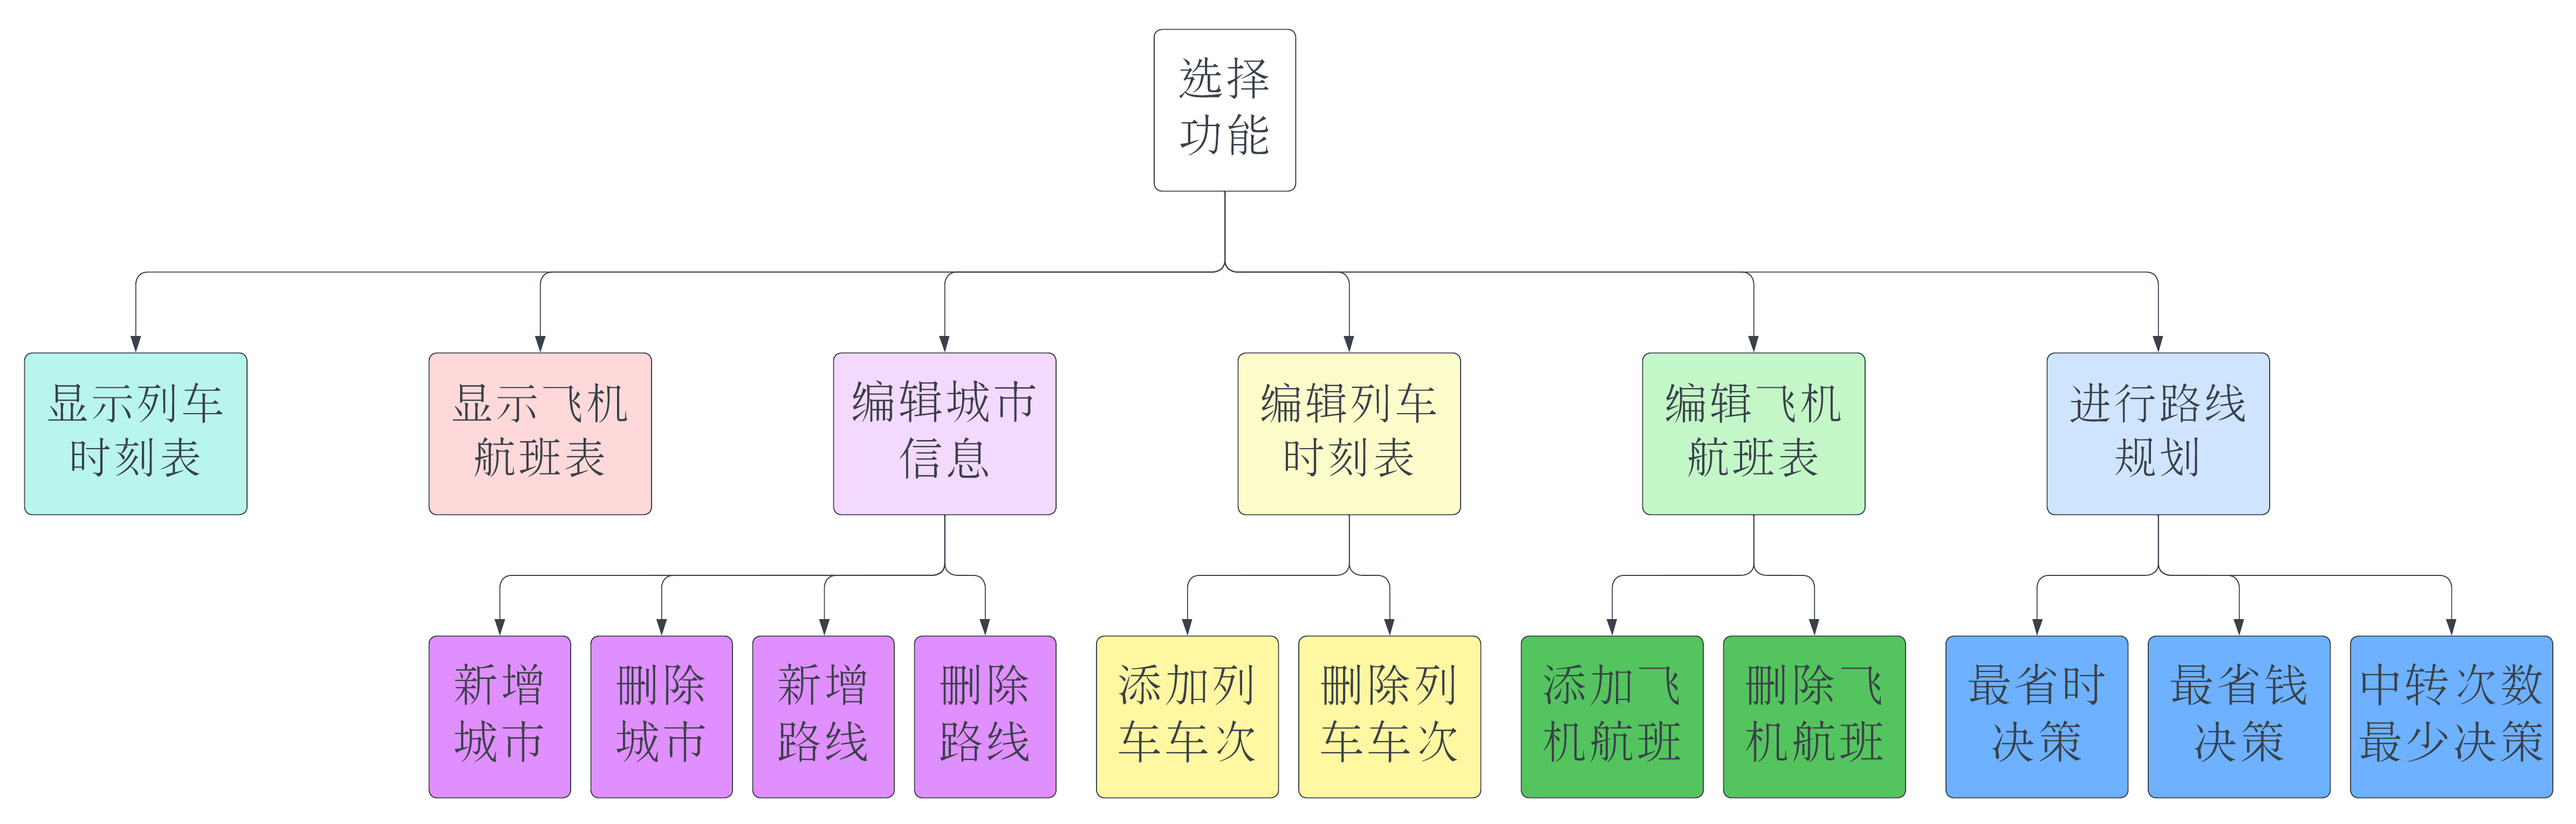
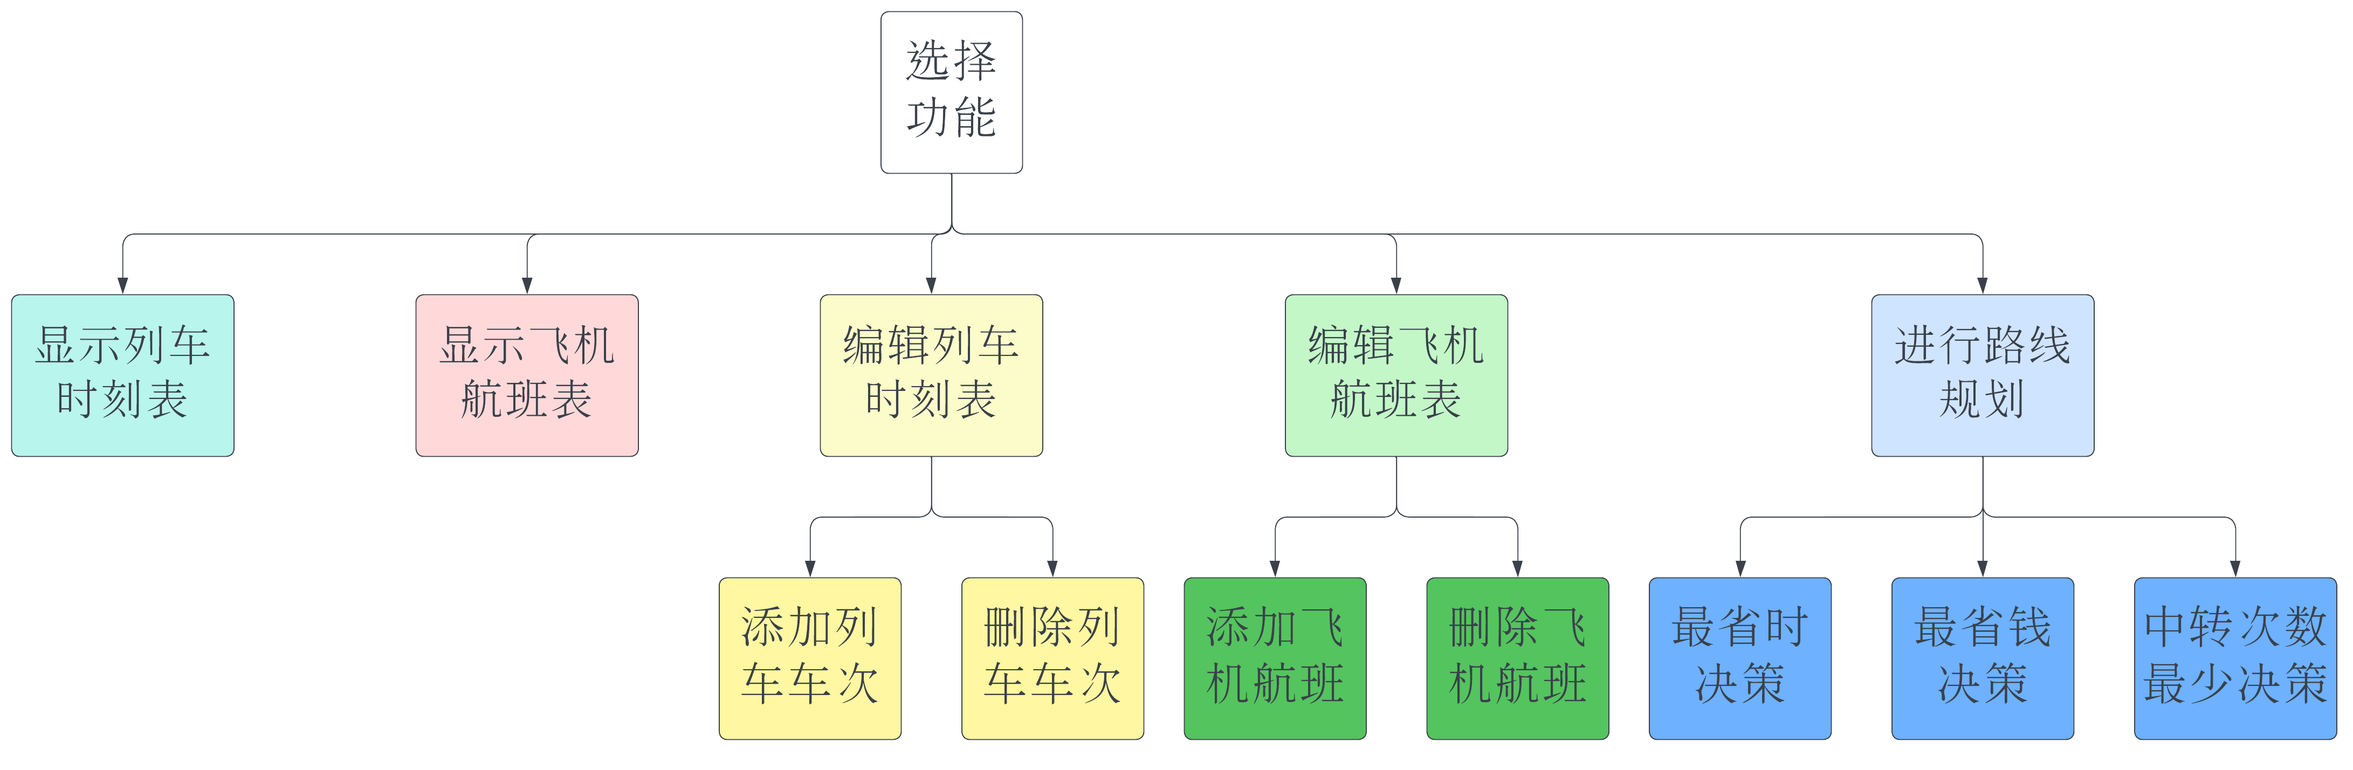
feat: change framework

diff --git a/NationalTrafficConsult/NationalTrafficConsult.h b/NationalTrafficConsult/NationalTrafficConsult.h
@@ -1,8 +1,11 @@
 #include <stdio.h>
 #include <stdlib.h>
+#include <string.h>
+#include <limits.h>         
 
 #define MAX_STR_LEN 500     // 字符串最大长度
 #define MAX_VEX_NUM 100     // (城市交通)图中最大顶点数目
+#define MAX_INFO 20         // 最大航班及车次数量和
 
 // 时间的规整格式
 typedef struct Time{
@@ -10,9 +13,20 @@ typedef struct Time{
     int minute;     // 分钟数
 } Time;
 
+// 车次/航班信息
+typedef struct Info{
+    int tag;                // 0：火车    1：飞机
+    char number[7];         // T/Fxxxxxx, 编号规则：T火车F飞机，010203表示从01号城市到02号城市的第03趟车次/航班
+    double cost;            // 票价，规范为两位小数
+    Time start_time;        // 起始时间
+    Time end_time;          // 到达时间
+    int duration;           // 时长，单位为分钟
+} Info;
+
 // 表结点
 typedef struct CityNode{
     int vindex;             // 该结点在表头结点数组中的城市序号
+    Info info[MAX_INFO];    // 本趟车次/航班的相关信息
     struct CityNode *next;  // 下个结点
 } NodeLink;
 
@@ -22,112 +36,55 @@ typedef struct CityMap{
     struct {
         char city[MAX_STR_LEN]; // 城市名
         NodeLink *first;        // 第一个邻接点
-    } v[MAX_VEX_NUM];
+    } v[MAX_VEX_NUM];           // 城市序号v[i]
 } CityMap;
-
-// 列车时刻表：单链表
-typedef struct TrainTable{
-    int num;                            // 列车总数，或车次编号
-    struct Train{
-        char departure[MAX_STR_LEN];    // 始发站
-        char terminal[MAX_STR_LEN];     // 终点站
-        Time start_time;                // 起始时间
-        Time end_time;                  // 到达时间
-        int duration_time;              // 路途用时
-        double cost;                    // 票价
-    } Train;
-    struct TrainTable *next;            // 下趟车次
-} TrainNode, TrainTable;
-
-// 飞机航班表：单链表
-typedef struct FlightTable{
-    int num;                            // 航班总数，或航班编号
-    struct Flight{
-        char departure[MAX_STR_LEN];    // 始发站
-        char terminal[MAX_STR_LEN];     // 终点站
-        Time start_time;                // 起始时间
-        Time end_time;                  // 到达时间
-        int duration_time;              // 路途用时
-        double cost;                    // 票价
-    } Flight;
-    struct FlightTable *next;
-} FlightNode, FlightTable;              // 下趟航班
 
 // 获取两个时刻的时间间隔(t1 < t2, 返回值的单位为分钟)
 int GetDurationTime(Time t1, Time t2);
 
-/* 
-setters and getters
-- setter: 形如void SetElem(Type *T, FILE *F)，意为把数据结构T中的内容保存到文件F中去
-- getter: 形如Type *GetElem(FILE *F)，意为获取文件F中的内容，并转换到Type类型的数据结构，作为返回值
+// 保存数据：把交通图的信息分别保存到TrainTable.txt和FlightTable.txt中
+void SetMap(CityMap *CMap, FILE *TT, FILE *FT);
+
+// 获取数据：把现有的TrainTable.txt和FlightTable.txt中的数据存储为一张交通图
+CityMap *GetMap(FILE *TT, FILE *FT);
+
+/*
+显示时刻表和航班表，都要相应地把文件按照规范格式保存起来
+FT: FlightTable.txt
+TT: TrainTable.txt
 */
-
-// 获取城市交通图
-CityMap *GetCityMap(FILE *CM);
-
-// 获取列车时刻表
-TrainTable *GetTrainTable(FILE *TT);
-
-// 获取飞机航班表
-FlightTable *GetFlightTable(FILE *FT);
-
-// 保存城市交通图
-void SetCityMap(CityMap *CMap, FILE *CM);
-
-// 保存列车时刻表
-void SetTrainTable(TrainTable *TTable, FILE *TT);
-
-// 保存飞机航班表
-void SetFlightTable(FlightTable *FTable, FILE *FT);
-
-// 核心功能
 // 显示列车时刻表
-void ShowTrainTable(TrainTable *TTable);
+void ShowTrainTable(CityMap *CMap, FILE *TT);
 
 // 显示飞机航班表
-void ShowFlightTable(FlightTable *FTable);
+void ShowFlightTable(CityMap *CMap, FILE *FT);
 
-// 编辑城市信息
-CityMap *EditCity(CityMap *CMap);
+// 编辑车次信息
+CityMap *EditTrain(CityMap *CMap);
 
-// 新增城市
-CityMap *AddCity(CityMap *CMap, char city[]);
+// 添加车次
+CityMap *AddTrain(CityMap *CMap, char departure[], char terminal[], Time start_time, Time end_time, double cost);
 
-// 删除城市
-CityMap *DelCity(CityMap *CMap, char city[]);
-
-// 新增路线
-CityMap *AddRoute(CityMap *CMap, char city1[], char city2[], int weight);
-
-// 删除路线
-CityMap *DelRoute(CityMap *CMap, char city1[], char city2[], int weight);
-
-// 编辑列车信息
-TrainTable *EditTrain(TrainTable *TTable);
-
-// 添加列车车次
-TrainTable *AddTrain(TrainTable *TTable, char departure[], char terminal[], Time start_time, Time end_time, double cost);
-
-// 删除列车车次
-TrainTable *DelTrain(TrainTable *TTable, char departure[], char terminal[], Time start_time, Time end_time, double cost);
+// 删除车次
+CityMap *DelTrain(CityMap *CMap, char departure[], char terminal[], Time start_time, Time end_time, double cost);
 
 // 编辑航班信息
-FlightTable *EditFlight(FlightTable *FTable);
+CityMap *EditFlight(CityMap *CMap);
 
-// 添加飞机航班
-FlightTable *AddFlight(FlightTable *FTable, char departure[], char terminal[], Time start_time, Time end_time, double cost);
+// 添加航班
+CityMap *AddFlight(CityMap *CMap, char departure[], char terminal[], Time start_time, Time end_time, double cost);
 
-// 删除飞机航班
-FlightTable *DelFlight(FlightTable *FTable, char departure[], char terminal[], Time start_time, Time end_time, double cost);
+// 删除航班
+CityMap *DelFlight(CityMap *CMap, char departure[], char terminal[], Time start_time, Time end_time, double cost);
 
-// 为乘客提供最优决策
-void Decision(CityMap *CMap, TrainTable *TTable, FlightTable *FTable);
+// 为乘客提供最优决策：依次问乘客决策的相关信息，并跳转到下面三个函数之一，下面三个函数才真正实现具体算法
+void Decision(CityMap *CMap);
 
 // 最省时决策(rule: 最优决策原则   transportation: 交通工具)
-void LeastDurationTime(CityMap *CMap, TrainTable *TTable, FlightTable *FTable, char departure[], char terminal[], int transportation);
+void LeastDurationTime(CityMap *CMap, char departure[], char terminal[], int transportation);
 
 // 最省钱决策(rule: 最优决策原则   transportation: 交通工具)
-void LeastCost(CityMap *CMap, TrainTable *TTable, FlightTable *FTable, char departure[], char terminal[], int transportation);
+void LeastCost(CityMap *CMap, char departure[], char terminal[], int transportation);
 
 // 中转次数最少决策(rule: 最优决策原则   transportation: 交通工具)
-void LeastExchange(CityMap *CMap, TrainTable *TTable, FlightTable *FTable, char departure[], char terminal[], int transportation);
+void LeastExchange(CityMap *CMap, char departure[], char terminal[], int transportation);

diff --git a/NationalTrafficConsult/README.md b/NationalTrafficConsult/README.md
@@ -2,12 +2,11 @@
 
 **详细的数据结构和各主要函数的定义已经在头文件[NationalTrafficConsult.h](NationalTrafficConsult.h)中实现。**
 
-- 两种表的显示（1人）：Setters and Getters
-- 数据结构的编辑（1人）：信息的增删，包括城市信息、列车时刻表以及飞机航班表
-- 路线规划★★
-  - 最省钱（1人）
-  - 最省时间（1人）
-  - 最少中转（1人）
+- 表的显示（lxy）
+- 表的编辑（hk）
+- 路线决策（zyj）
+
+不涉及经停车次，所有车次都是直达。在相同车站之间会有多趟不同时间、票价的车次及航班。
 
 # 数据结构
 
@@ -28,11 +27,6 @@
 - 选择功能 `main()`
   - 显示列车时刻表 `ShowTrainTable()`
   - 显示飞机航班表 `ShowFlightTable()`
-  - 编辑城市信息   `EditCity()`
-    - 新增城市 `AddCity()`
-    - 删除城市 `DelCity()`
-    - 新增路线 `AddRoute()`
-    - 删除路线 `DelRoute()`
   - 编辑列车时刻表 `EditTrain()`
     - 添加列车车次 `AddTrain()`
     - 删除列车车次 `DelTrain()`
@@ -48,7 +42,6 @@
 
 除了代码之外，还应该有
 
-- CityMap.txt，保存城市交通图
 - TrainTable.txt，保存列车时刻表
 - FlightTable.txt，保存飞机航班图
 
